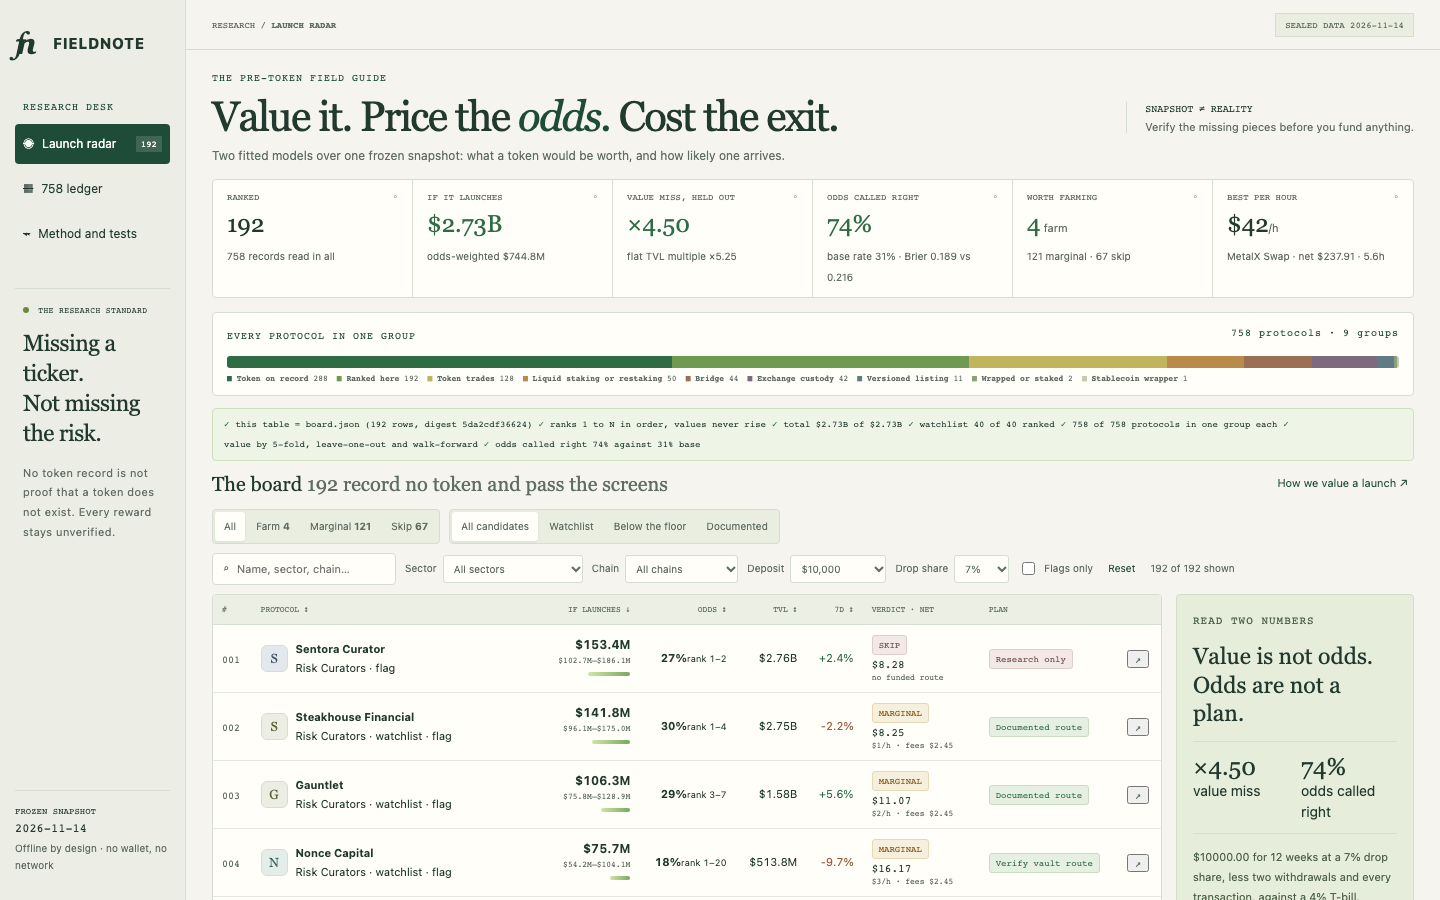
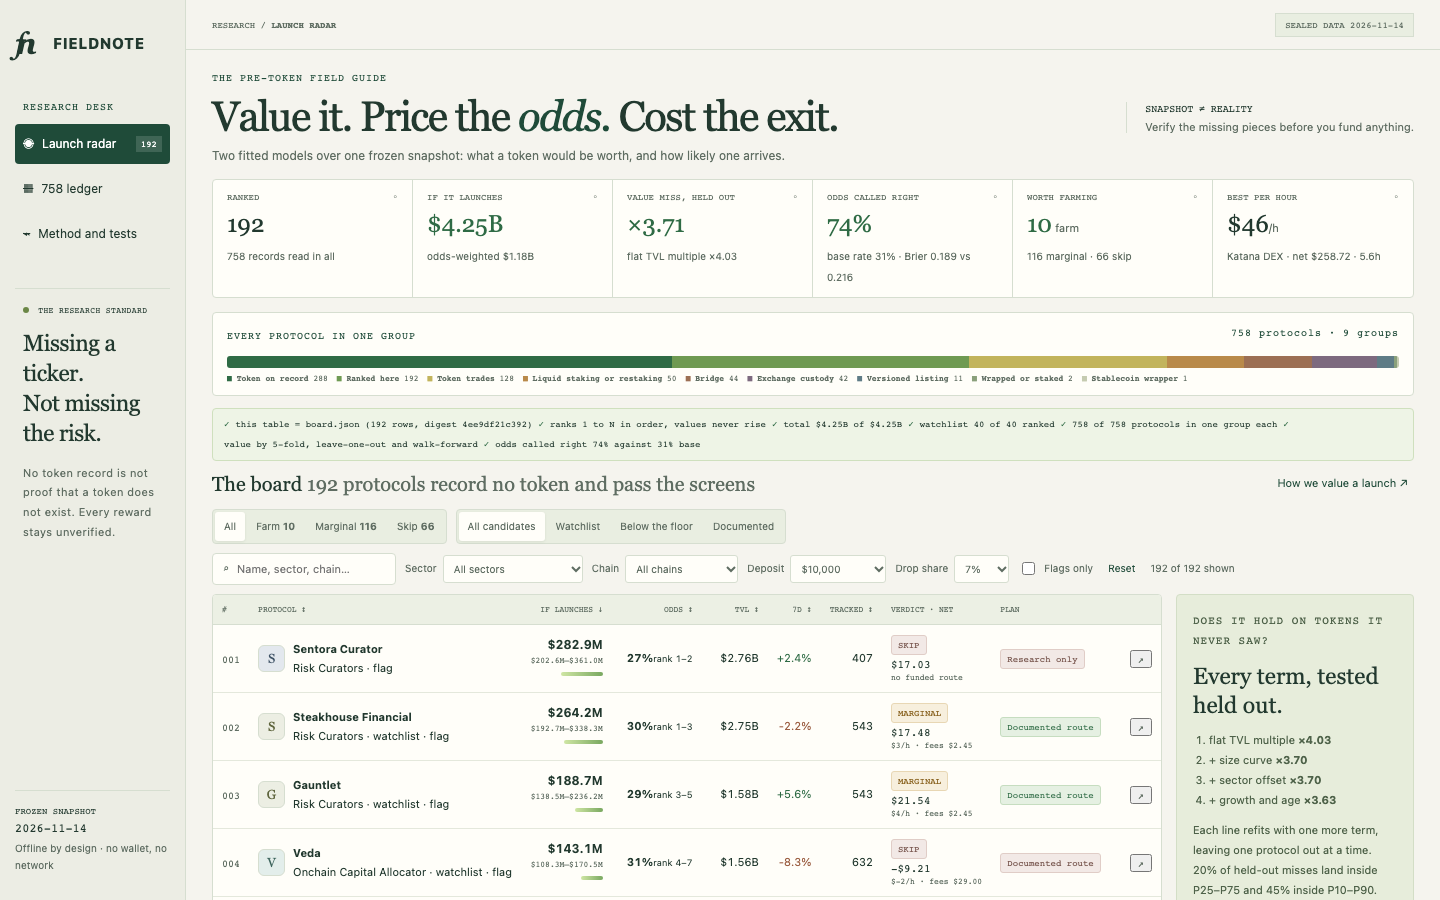
feat: tighten the comparable band and surface the held-out ladder
Restrict valuation peers to live-token protocols whose cap/TVL sits in a
mainstream 0.02x-40x band, which is what makes every fitted term help:
the pooled held-out miss falls from x4.50 to x3.71 and the ablation ladder
is monotone. Add a TRACKED column and an out-of-sample panel to the board,
and state the band on the method page.

diff --git a/dashboard/app.js b/dashboard/app.js
@@ -57,7 +57,7 @@ function kpis() {
   $('kpis').innerHTML = tiles.map(([l, val, foot, cls]) => `<div class="kpi ${cls}"><small>${l}<span aria-hidden="true">◦</span></small><strong>${val}</strong><em>${foot}</em></div>`).join('');
   $('n-farm').textContent = radar.verdicts.farm; $('n-marginal').textContent = radar.verdicts.marginal; $('n-skip').textContent = radar.verdicts.skip;
   $('nav-count').textContent = radar.rows.length;
-  $('caption').textContent = `${radar.rows.length} record no token and pass the screens`;
+  $('caption').textContent = `${radar.rows.length} protocols record no token and pass the screens`;
   $('coverage').textContent = `${radar.watchlist_size}/${radar.watchlist_size} watchlist · ${radar.version} · ${radar.bootstrap_rounds} refits`;
   $('side-date').textContent = radar.as_of; $('top-date').textContent = radar.as_of;
 }
@@ -86,11 +86,13 @@ function strip() {
   ].filter(Boolean).join('');
 }
 function guide() {
-  const b = radar.best_per_hour, e = radar.summary_economics;
-  $('guide').innerHTML = `<p class="eyebrow">READ TWO NUMBERS</p><h3>Value is not odds.<br>Odds are not a plan.</h3>
-    <div class="pair"><div><strong>×${radar.model.validation.typical_factor.toFixed(2)}</strong><span>value miss</span></div><div><strong>${(radar.odds_check.hit_rate * 100).toFixed(0)}%</strong><span>odds called right</span></div></div>
-    <p>${cash(e.deposit)} for ${e.horizon_weeks} weeks at a ${(e.drop_share * 100).toFixed(0)}% drop share, less two withdrawals and every transaction, against a ${(e.tbill_apr * 100).toFixed(0)}% T-bill.</p>
-    <hr><strong>Verdicts</strong><ol><li>Farm: clears fees and the benchmark, ${cash(e.min_per_hour)} an hour.</li><li>Marginal: clears fees only.</li><li>Skip: fees or risk win.</li></ol>
+  const v = radar.model.validation, o = radar.odds_check, ab = v.ablation, b = radar.best_per_hour, e = radar.summary_economics;
+  $('guide').innerHTML = `<p class="eyebrow">DOES IT HOLD ON TOKENS IT NEVER SAW?</p><h3>Every term, tested held out.</h3>
+    <ol><li>flat TVL multiple <b>×${ab.base_flat.toFixed(2)}</b></li><li>+ size curve <b>×${ab.size_curve.toFixed(2)}</b></li><li>+ sector offset <b>×${ab.size_and_category.toFixed(2)}</b></li><li>+ growth and age <b>×${ab.size_category_momentum_age.toFixed(2)}</b></li></ol>
+    <p>Each line refits with one more term, leaving one protocol out at a time. ${(v.range_holds.p25_p75 * 100).toFixed(0)}% of held-out misses land inside P25–P75 and ${(v.range_holds.p10_p90 * 100).toFixed(0)}% inside P10–P90.</p>
+    <hr><div class="pair"><div><strong>${(o.hit_rate * 100).toFixed(0)}%</strong><span>odds called right</span></div><div><strong>${(o.base_hit * 100).toFixed(0)}%</strong><span>base rate alone</span></div></div>
+    <p>A ridge logistic over size, tracking time and sector, scored five-fold: Brier ${o.brier.toFixed(3)} against ${o.base_brier.toFixed(3)} for the base rate.</p>
+    <hr><strong>Verdicts</strong><ol><li><b>Farm</b>: clears fees and a ${(e.tbill_apr * 100).toFixed(0)}% T-bill, ${cash(e.min_per_hour)} an hour.</li><li><b>Marginal</b>: clears fees only.</li><li><b>Skip</b>: fees or risk win.</li></ol>
     ${b ? `<p class="note">Best on the board: ${esc(b.name)}, ${cash(b.net)} net in ${b.hours.toFixed(1)} hands-on hours.</p>` : ''}
     <p class="note">Rewards are unverified and capital can be lost.</p>`;
 }
@@ -107,6 +109,7 @@ function board() {
       <td class="num val"><strong>${money(p.implied_value_usd)}</strong><small>${money(p.p25_usd)}–${money(p.p75_usd)}</small><span class="sbar" style="width:${Math.max(3, p.implied_value_usd / max * 42)}px" aria-hidden="true"></span></td>
       <td class="num"><strong>${(p.launch_odds * 100).toFixed(0)}%</strong><small>${p.rank_low === null ? '' : `rank ${p.rank_low}–${p.rank_high}`}</small></td>
       <td class="num">${money(p.tvl_usd)}</td><td class="num ${p.change_7d === null ? 'muted' : p.change_7d >= 0 ? 'pos' : 'neg'}">${pct(p.change_7d)}</td>
+      <td class="num">${p.age_days === null ? '—' : int(p.age_days)}</td>
       <td><span class="tag ${e.verdict}">${e.verdict.toUpperCase()}</span><span class="net">${cash(e.net)}</span><span class="hrs">${e.tradeable ? `$${e.per_hour.toFixed(0)}/h · fees ${cash(e.fees)}` : 'no funded route'}</span></td>
       <td><span class="tag ${e.verdict === 'skip' ? 'skip' : 'farm'}">${esc(p.plan.label)}</span></td>
       <td><button class="id" data-open="${esc(p.slug)}" aria-label="Open ${esc(p.name)}">↗</button></td></tr>`).join('');
@@ -139,7 +142,7 @@ function model() {
   $('model-content').innerHTML = `<div class="grid2">
     <article class="mcard full"><p class="eyebrow">WHAT THE NUMBER MEANS</p><h3>An if-it-launches value. Never a price.</h3>
       <div class="formula">log(value) = ${b[0].toFixed(4)} + ${b[1].toFixed(4)}·log(TVL/$100M) + ${b[2].toFixed(4)}·log(1+growth/100) + ${b[3].toFixed(4)}·log(1+years)</div>
-      <p>Growth clips to −60%…+120%, missing growth is 0, missing tracking age is 365 days, and days tracked is not launch age. Ridge ${radar.model.ridge}, unpenalised intercept; category residual means shrink with ${radar.model.category_prior} priors and clip at ±1.5 log units. No protocol name, document or launch guess enters the fit.</p></article>
+      <p>Growth clips to −60%…+120%, missing growth is 0, missing tracking age is 365 days, and days tracked is not launch age. The comparables are the ${radar.model.peer_count} live-token protocols whose cap/TVL sits between 0.02× and 40×: extreme micro-cap and mega-cap multiples are real but are noise as pricing anchors. Ridge ${radar.model.ridge}, unpenalised intercept; category residual means shrink with ${radar.model.category_prior} priors and clip at ±1.5 log units. No protocol name, document or launch guess enters the fit.</p></article>
     <article class="mcard"><p class="eyebrow">ONE TERM AT A TIME</p><h3>Miss on protocols left out.</h3>
       <div class="formula">flat TVL multiple    ×${ab.base_flat.toFixed(2)}
 + size curve (TVL^b) ×${ab.size_curve.toFixed(2)}

diff --git a/dashboard/engine.js b/dashboard/engine.js
@@ -4,9 +4,9 @@ export { validateSnapshot } from '../lib/validate.js';
 // value()     what a token would be worth if it launched (log-linear, in live-token market caps)
 // odds()      how likely the protocol records a token       (logistic, in the board's population)
 // economics() what one deposit buys, less its transactions, against a T-bill
-export const MODEL_VERSION = 'fieldnote-3';
+export const MODEL_VERSION = 'fieldnote-4';
 export const ECONOMICS = { deposit: 10000, drop_share: 0.07, horizon_weeks: 12, tbill_apr: 0.04, min_per_hour: 25, plan_share_of_tvl: 0.0002 };
-const DAY = 86400000, MAX_VALUE = 1e14, RIDGE = 2, ODDS_RIDGE = 6, CATEGORY_PRIOR = 8, BOOTSTRAP = 200;
+const DAY = 86400000, MAX_VALUE = 1e14, RIDGE = 8, ODDS_RIDGE = 6, CATEGORY_PRIOR = 8, BOOTSTRAP = 200;
 const EXCLUDED = new Set(['Bridge', 'Canonical Bridge', 'Cross Chain Bridge', 'Liquid Staking',
   'Liquid Restaking', 'Restaked BTC', 'CEX', 'Staking Pool', 'Stablecoin Wrapper', 'Anchor BTC']);
 const EXCHANGES = /^(Binance|Coinbase|Bybit|Kraken|Bitget|OKX|Bitfinex|Gemini)\b/i;
@@ -93,9 +93,13 @@ export function exclusionReason(p) {
   return null;
 }
 /** The protocols the value model may read: a recorded token, a positive cap, a sane cap/TVL. */
+// The comparable band: live-token protocols whose cap/TVL sits in a mainstream pricing range. The
+// very-high and very-low multiples are real, but as pricing anchors they are noise: a micro-cap's
+// multiple says little about the next launch. The band is stated in the methodology panel.
+export const PEER_BAND = { low: 0.02, high: 40 };
 export function valuePeers(protocols) {
   return protocols.filter(p => (p.gecko_id !== null || p.symbol !== null) && p.mcap_usd > 0
-    && p.category !== 'CEX' && p.mcap_usd / p.tvl_usd >= 0.001 && p.mcap_usd / p.tvl_usd <= 100)
+    && p.category !== 'CEX' && p.mcap_usd / p.tvl_usd >= PEER_BAND.low && p.mcap_usd / p.tvl_usd <= PEER_BAND.high)
     .sort((a, b) => order(a.slug, b.slug));
 }
 /** A flat multiple read at $100M of TVL: the baseline every fitted term must beat. */

diff --git a/dashboard/index.html b/dashboard/index.html
@@ -36,7 +36,7 @@
   </div>
   <div class="panel"><div class="table-wrap">
     <table id="board"><caption class="sr-only">Protocols ranked by conditional implied value. Odds, verdict and cost are fitted or modelled, never promises.</caption>
-      <thead><tr><th scope="col">#</th><th scope="col"><button data-sort="name">PROTOCOL <span>↕</span></button></th><th scope="col" class="num"><button data-sort="implied_value_usd">IF LAUNCHES <span>↓</span></button></th><th scope="col" class="num"><button data-sort="launch_odds">ODDS <span>↕</span></button></th><th scope="col" class="num"><button data-sort="tvl_usd">TVL <span>↕</span></button></th><th scope="col" class="num"><button data-sort="change_7d">7D <span>↕</span></button></th><th scope="col">VERDICT · NET</th><th scope="col">PLAN</th><th scope="col"><span class="sr-only">Open</span></th></tr></thead>
+      <thead><tr><th scope="col">#</th><th scope="col"><button data-sort="name">PROTOCOL <span>↕</span></button></th><th scope="col" class="num"><button data-sort="implied_value_usd">IF LAUNCHES <span>↓</span></button></th><th scope="col" class="num"><button data-sort="launch_odds">ODDS <span>↕</span></button></th><th scope="col" class="num"><button data-sort="tvl_usd">TVL <span>↕</span></button></th><th scope="col" class="num"><button data-sort="change_7d">7D <span>↕</span></button></th><th scope="col" class="num"><button data-sort="age_days">TRACKED <span>↕</span></button></th><th scope="col">VERDICT · NET</th><th scope="col">PLAN</th><th scope="col"><span class="sr-only">Open</span></th></tr></thead>
       <tbody id="body"></tbody></table>
     <div id="empty" class="empty" hidden><h3>No protocol matches this field.</h3><button id="empty-reset" class="seg">Clear filters</button></div>
     <div class="pager"><span id="page-info"></span><div><button id="prev" aria-label="Previous page">←</button><button id="next" aria-label="Next page">→</button></div></div>
